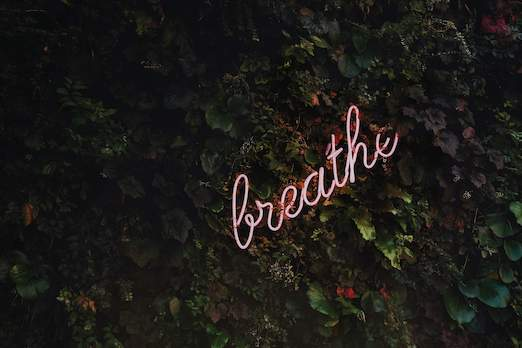
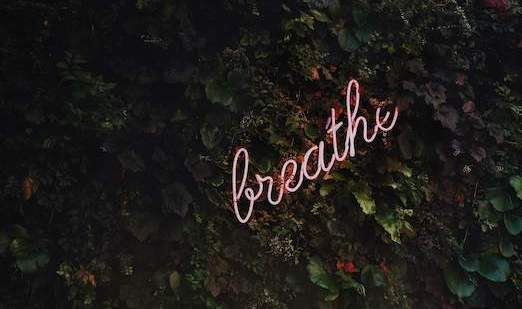
Made all pictures the same size

diff --git a/index.html b/index.html
@@ -180,7 +180,7 @@
                     <a href="https://saras-trending-movies.netlify.app/" target="_blank">
                         <div class="project-image-container">
                             <img src="./images/movie.jpg" alt="people in line to get popcorn">
-                            <h4 class="card-text">TERENDING MOVIES</h4>
+                            <h4 class="card-text">TRENDING MOVIES</h4>
                         </div>
                         <p><span class="sub-title"> Trending movies</span>
                             A list of the top 20 trending movies right now fetched from an open movie database.
